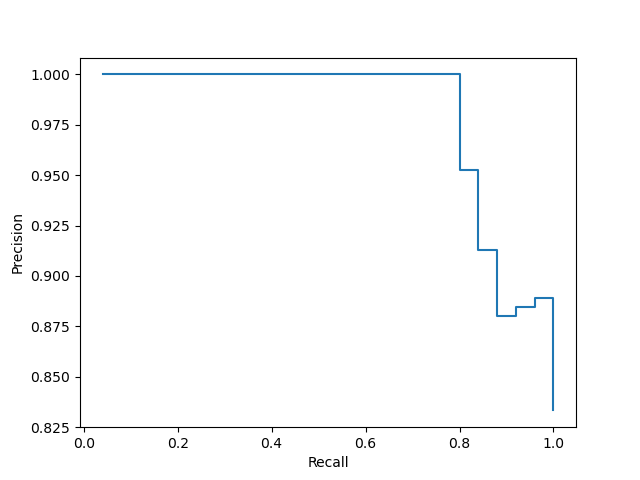
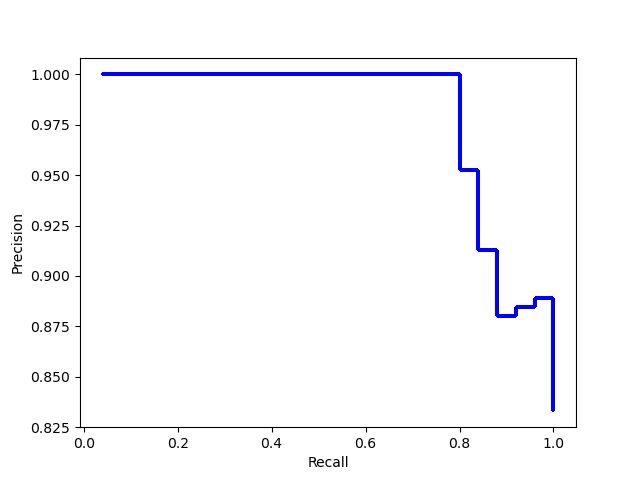
Delusional

Changed region(s): [[0.7188, 0.3438, 0.875, 0.8438], [0.1562, 0.125, 0.7188, 0.1875]]

diff --git a/solr/evaluation/queries/ask1_EDISMAX/teste2.py b/solr/evaluation/queries/ask1_EDISMAX/teste2.py
@@ -1,0 +1,49 @@
+from PIL import Image
+
+
+def change_pixel_color(source_image_path, target_image_path, output_path, target_color, new_color):
+    # Open the source image
+    source_img = Image.open(source_image_path)
+
+    # Open the target image
+    target_img = Image.open(target_image_path)
+
+    new_rgb = tuple(int(new_color[i:i + 2], 16) for i in (0, 2, 4))
+
+    # Get the source image data
+    source_data = source_img.getdata()
+
+    new_data = []
+    for pixel in source_data:
+        if pixel[0] < pixel[2] and pixel[1] < pixel[2]:
+            new_data.append(new_rgb)
+        else:
+            new_data.append((0, 0, 0, 0))  # Add a transparent pixel
+
+    new_img = Image.new("RGBA", source_img.size)
+    new_img.putdata(new_data)
+
+    # Paste the modified source image onto the target image
+    target_img.paste(new_img, (0, 0), new_img)
+
+    # Save the new target image
+    target_img.save(output_path)
+
+if __name__ == "__main__":
+    # Replace 'input_source.png' with the path to your source image
+    source_image_path = "precision_recall_V1.png"
+
+    # Replace 'input_target.png' with the path to your target image
+    target_image_path = "precision_recall_V2.png"
+    
+    # Replace 'output.png' with the desired output path
+    output_image_path = "output.png"
+
+    # Replace '1F77B4' and 'FF0000' with the target and new colors, respectively
+    target_color = "1F77B4"
+    new_color = "FF0000"
+
+    change_pixel_color(source_image_path, target_image_path, output_image_path, target_color, new_color)
+
+    print(f"Conversion complete. Image saved to {output_image_path}")
+

diff --git a/solr/evaluation/queries/ask1_EDISMAX/teste.py b/solr/evaluation/queries/ask1_EDISMAX/teste.py
@@ -1,0 +1,41 @@
+from PIL import Image
+
+def change_pixel_color(image_path, target_color, new_color, output_path):
+    # Open the image
+    img = Image.open(image_path)
+
+    new_rgb = tuple(int(new_color[i:i + 2], 16) for i in (0, 2, 4))
+
+    # Get the image data
+    data = img.getdata()
+
+
+    new_data = []
+    for pixel in data:
+         if pixel[0] < pixel[2] and pixel[1] < pixel[2]:
+            new_data.append(new_rgb)
+         else:
+            new_data.append(pixel)
+         
+        
+    new_img = Image.new("RGB", img.size)
+    new_img.putdata(new_data)
+
+    # Save the new image
+    new_img.save(output_path)
+
+if __name__ == "__main__":
+    # Replace 'input.png' with the path to your input image
+    input_image_path = "precision_recall_V2.png"
+    
+    # Replace 'output.png' with the desired output path
+    output_image_path = "precision_recall_V2.png"
+
+    # Replace '13FFAA' and '123463' with the target and new colors, respectively
+    target_color = "1F77B4"
+    new_color = "0000FF"
+
+    change_pixel_color(input_image_path, target_color, new_color, output_image_path)
+
+    print(f"Conversion complete. Image saved to {output_image_path}")
+
